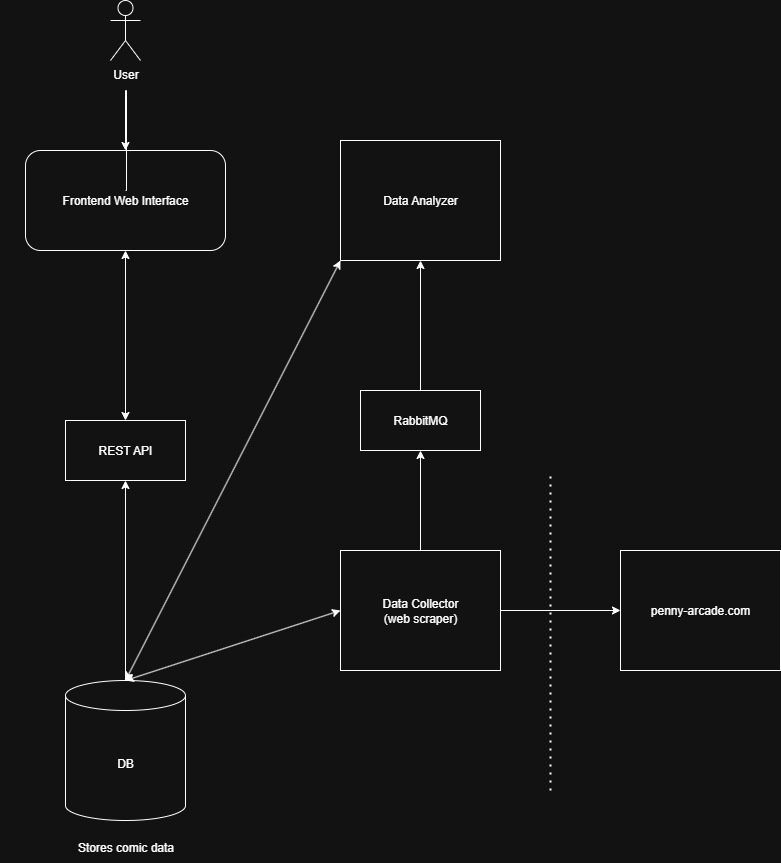
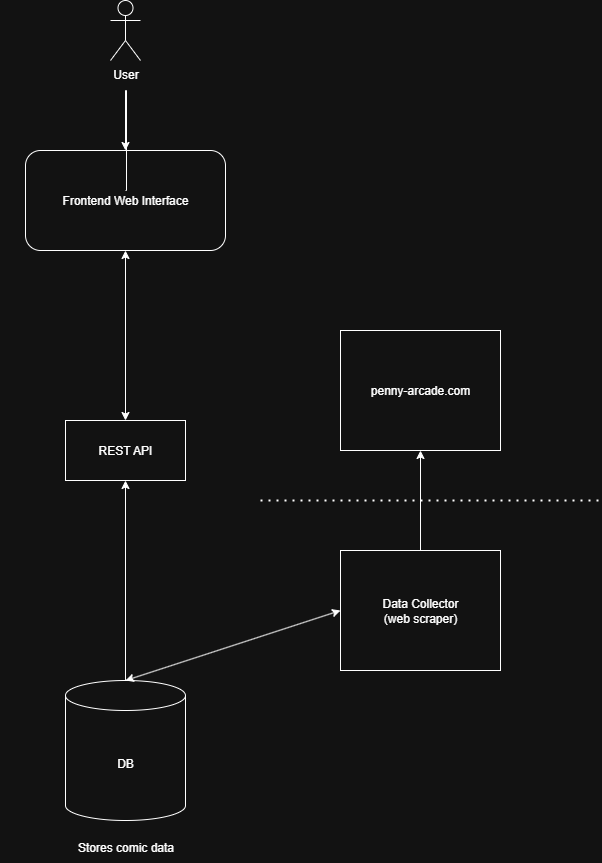
updated readme and diagram to remove references to queue

diff --git a/README.md b/README.md
@@ -11,7 +11,6 @@ This project aims to solve that problem by extracting the text from every comic 
 ## Tech Stack
 
 - **Database:** PostgreSQL  
-- **Messaging:** RabbitMQ  
 - **Services:** Python (collector & analyzer), Flask (REST API)  
 - **OCR:** `pytesseract`  
 - **Frontend:** React  
@@ -40,22 +39,10 @@ This project aims to solve that problem by extracting the text from every comic 
 5. Extract title, publication date, and panel image URLs.  
 6. Insert the new comic into the database.  
 7. Publish a message to RabbitMQ with the new comic’s ID, title, and panel URLs.
-
----
-
-## Queue
-
-- **RabbitMQ** facilitates notifications from the collector to the analyzer indicating a new comic is ready for OCR.
-
----
-
-## Data Analysis (Python service)
-
-1. Consume a message from the queue.  
-2. For each panel URL (one or more), request the image.  
-3. Extract text with `pytesseract`.  
-4. Sanitize/normalize the extracted text.  
-5. Update the corresponding database record with the OCR results.
+8. For each panel URL (one or more), request the image.  
+9. Extract text with `pytesseract`.  
+10. Sanitize/normalize the extracted text.  
+11. Update the corresponding database record with the OCR results.
 
 ---
 
